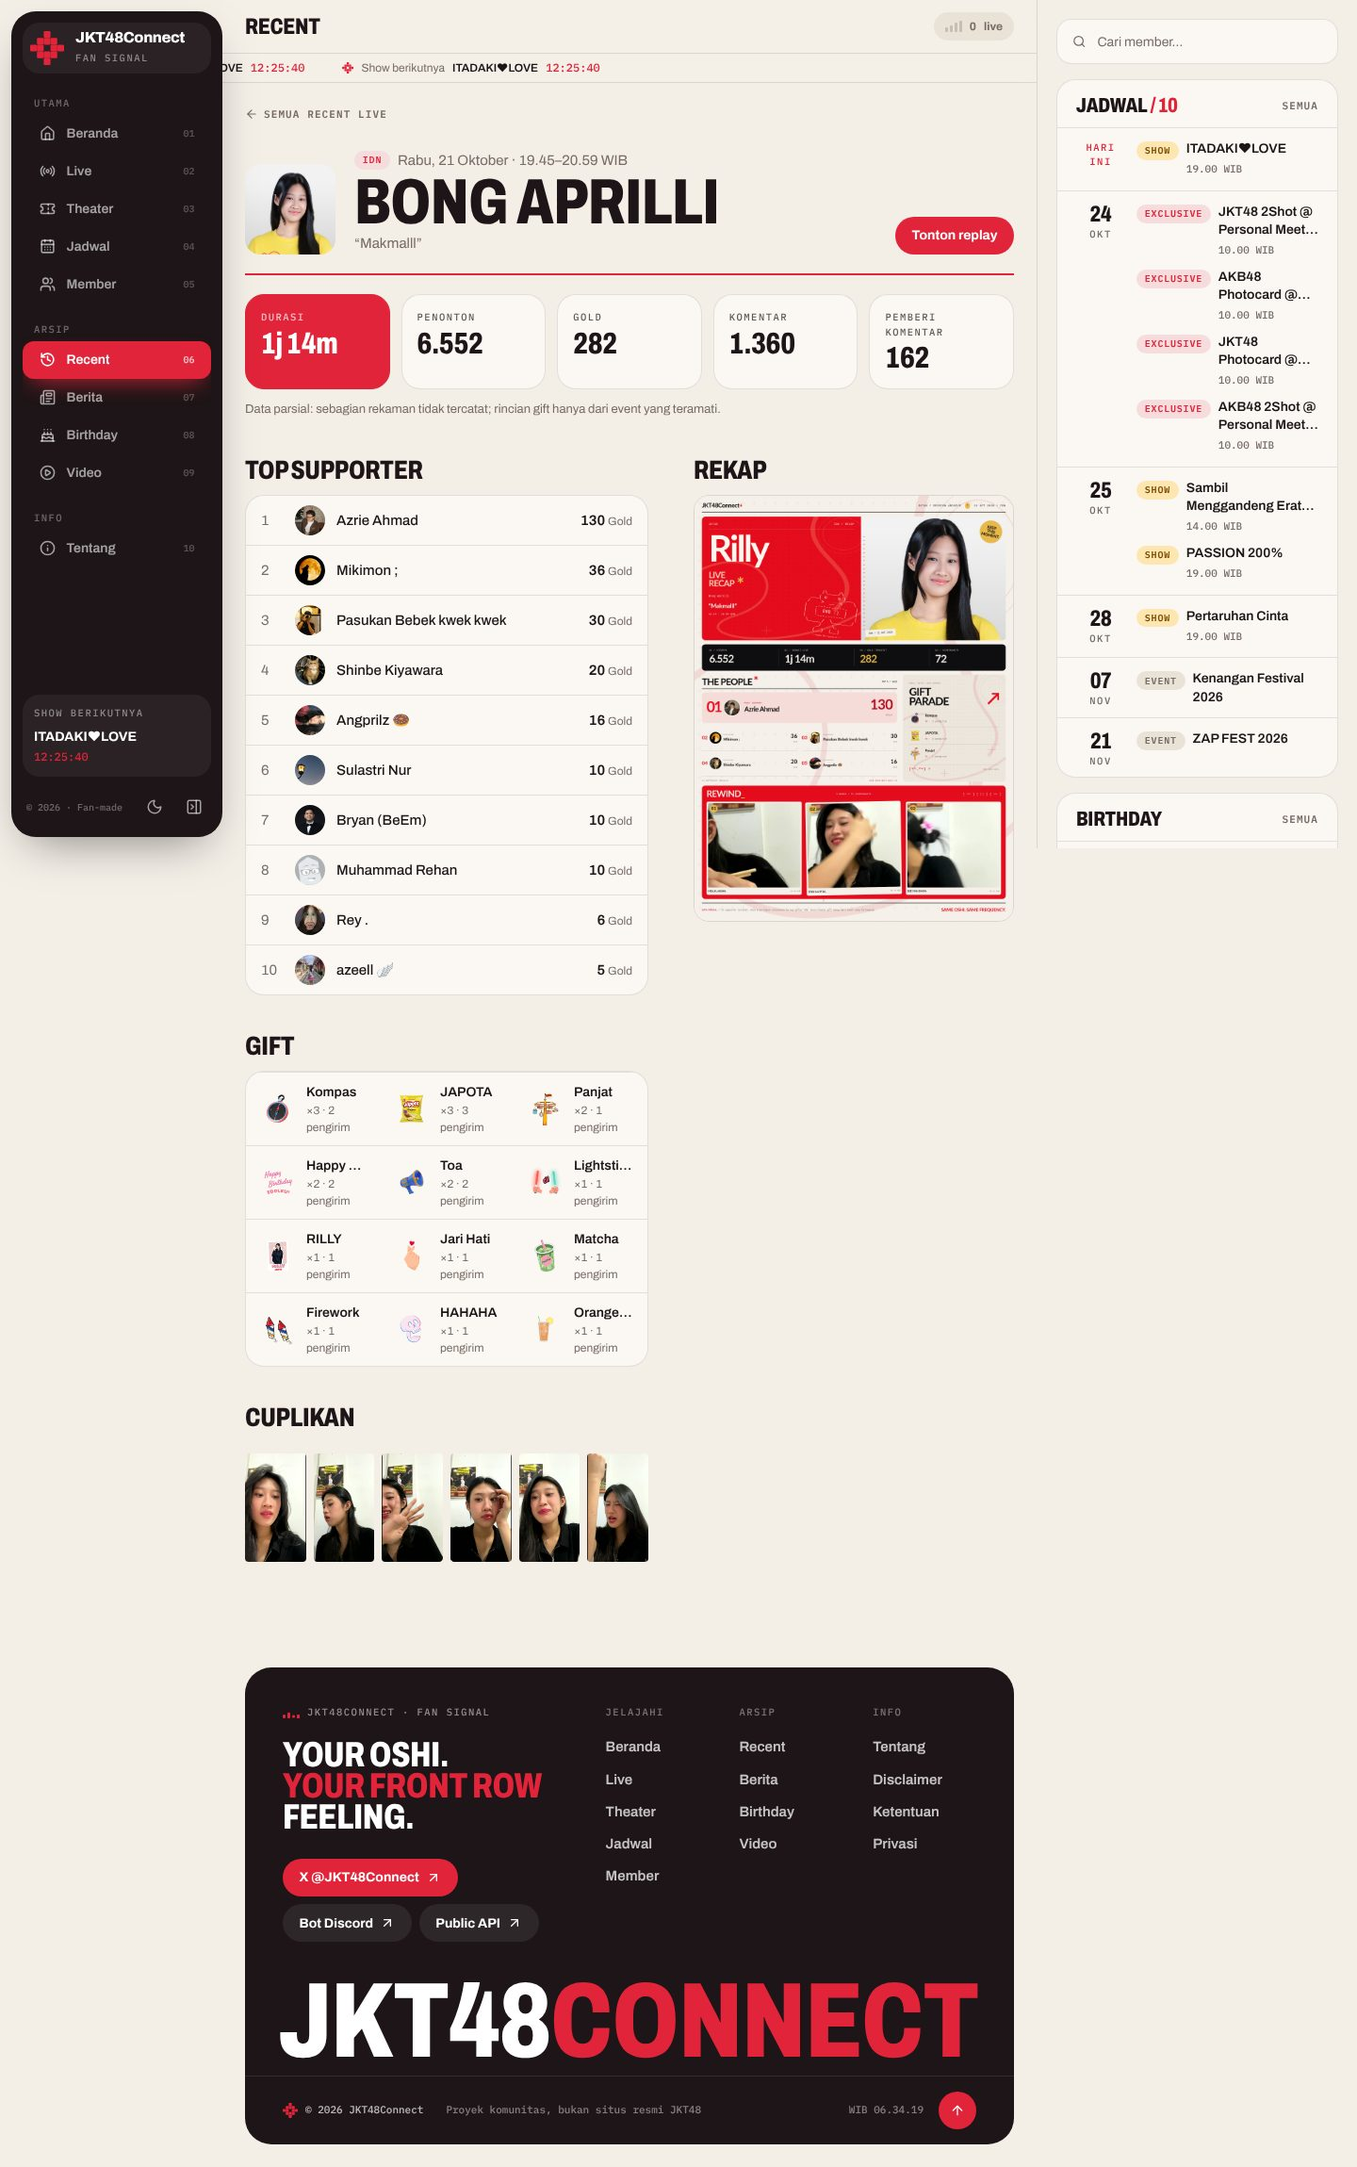
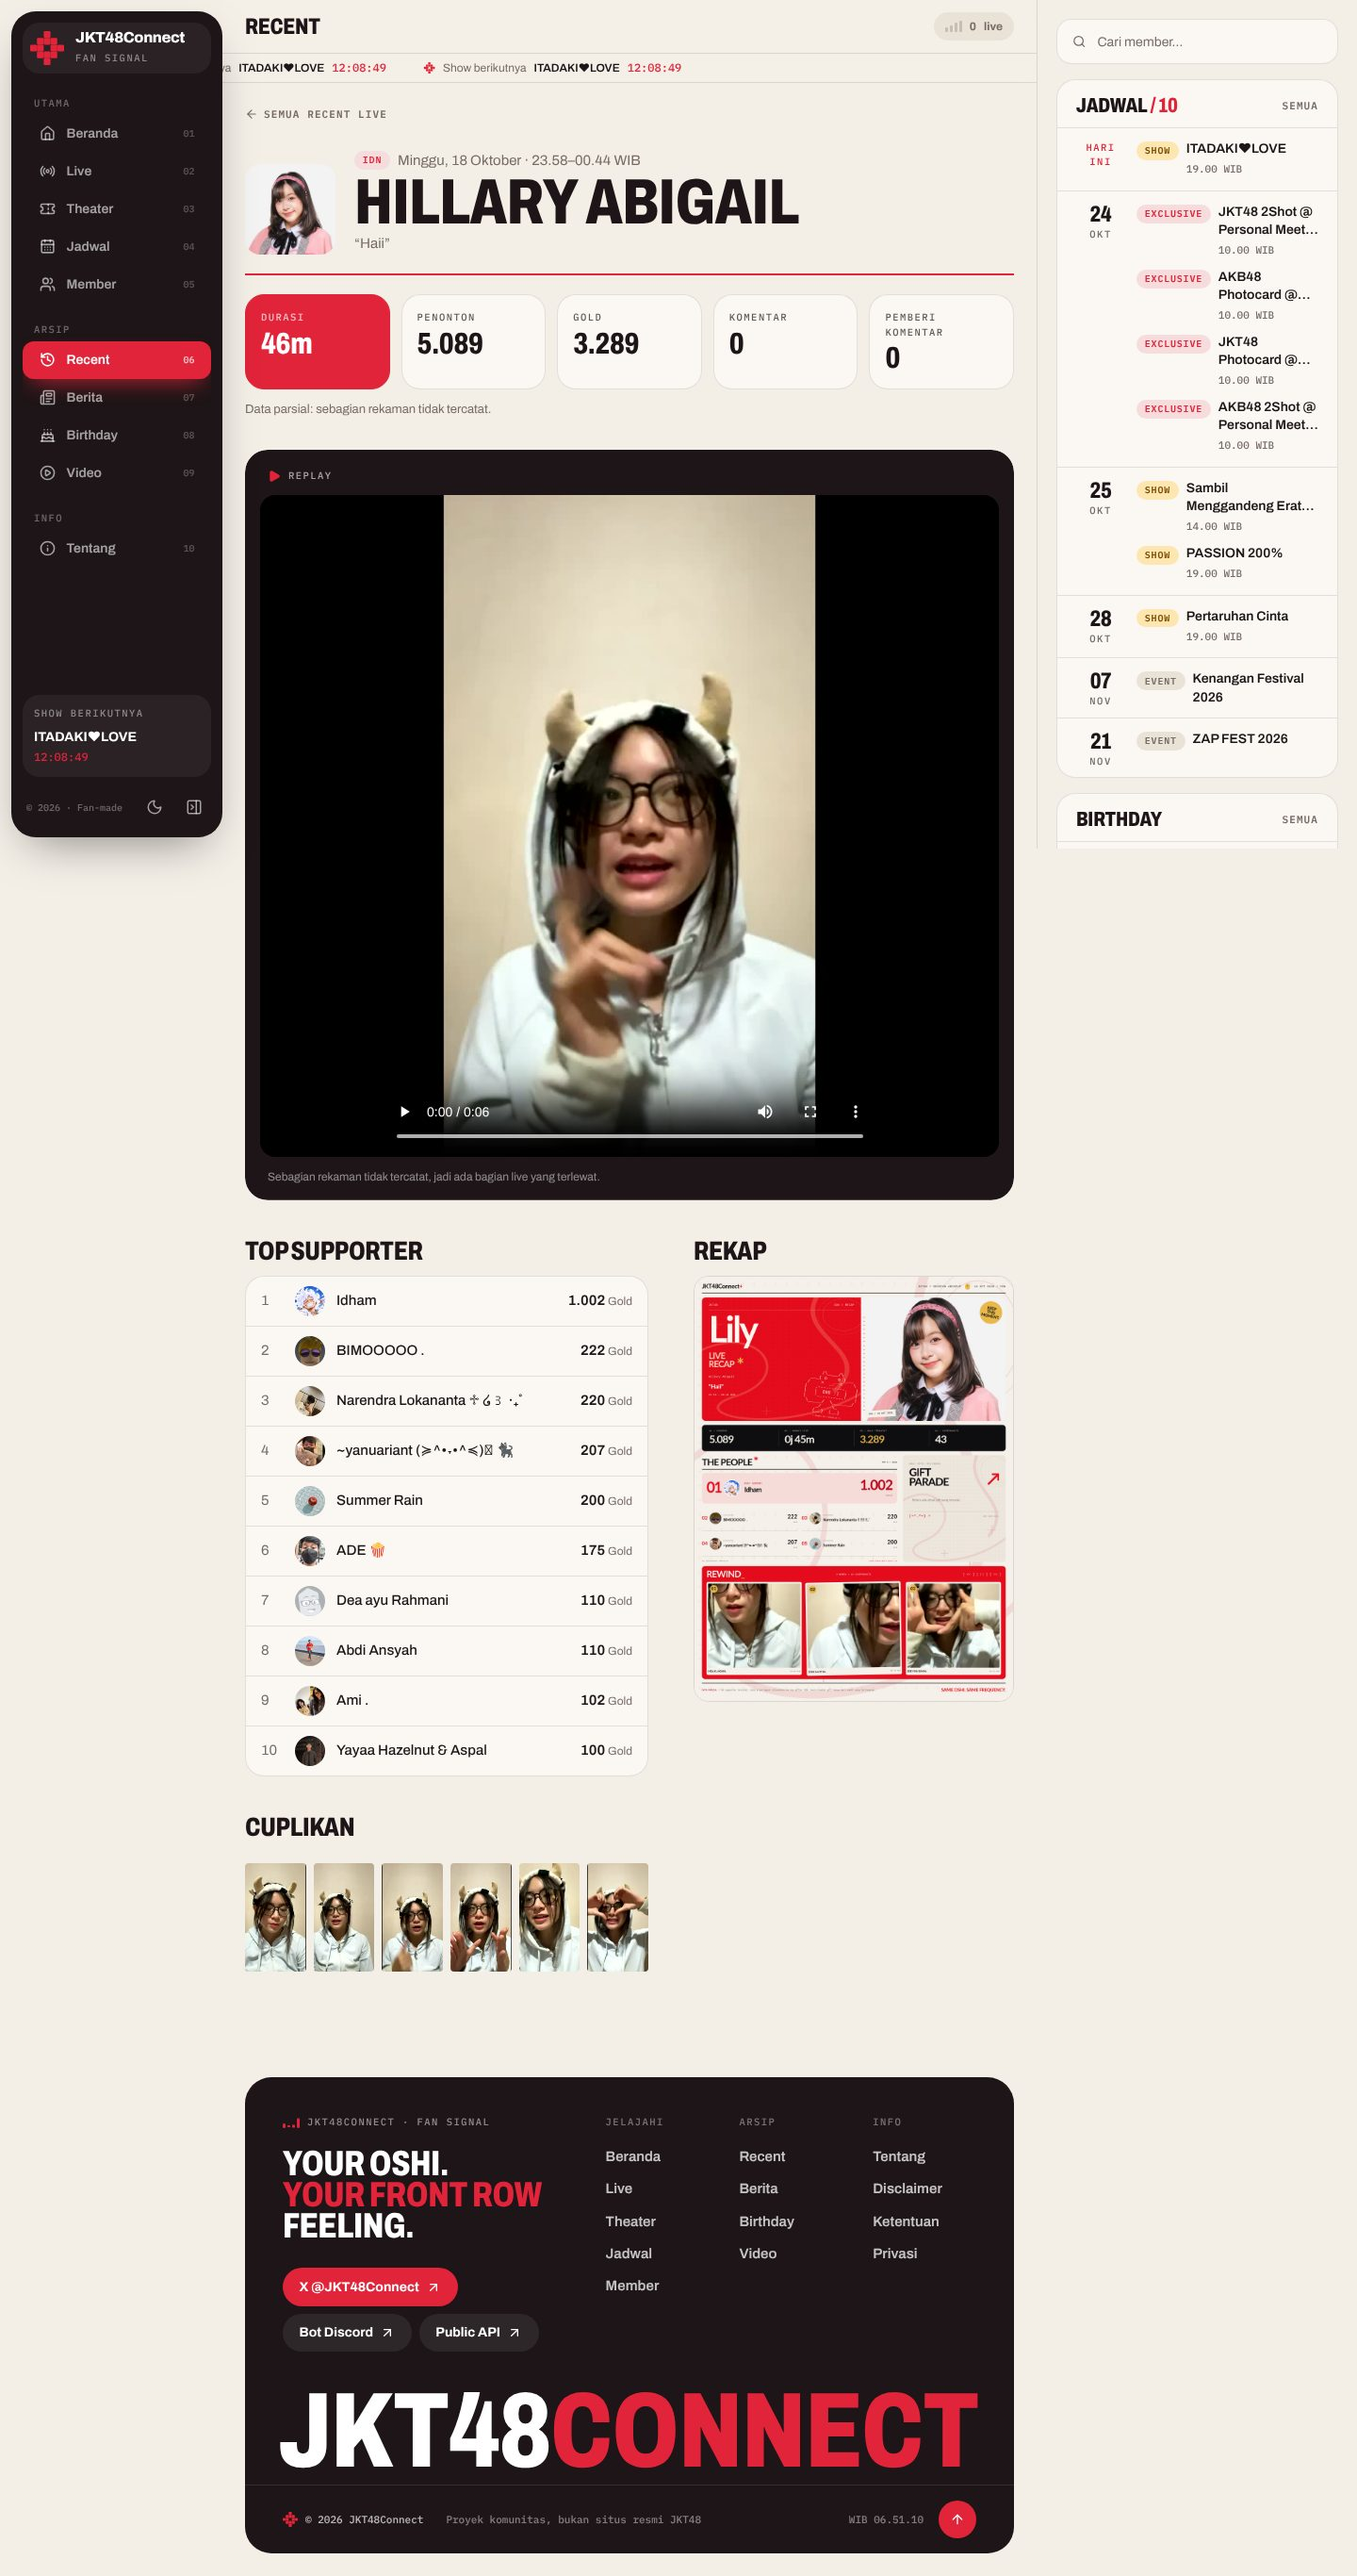
Putar replay recent langsung di situs, terbuka 72 jam setelah live
- Detail recent memutar rekaman dengan <video> dari recordings[].url (MP4 H.264,
  CORS terbuka), dengan pilihan bagian bila rekaman terpecah dan rasio diambil
  dari metadata video (IDN 3:4, Showroom 16:9).
- Pemutar baru terbuka 72 jam setelah live selesai (REPLAY_LOCK_HOURS). Sebelum
  itu tampil panel terkunci dengan hitung mundur, tanggal buka, dan bar masa
  tunggu, lalu berubah jadi pemutar dengan sendirinya saat waktunya tiba.
- Tombol "Tonton replay" ke player eksternal dihapus supaya aturan 72 jam tidak
  bisa dilewati dari halaman ini.

Claude-Session: https://claude.ai/code/session_01Jmt5K39FbxVEJrhGiuPQW9

diff --git a/src/components/replay.tsx b/src/components/replay.tsx
@@ -1,0 +1,128 @@
+import { Lock, Play } from "lucide-react";
+import { useLayoutEffect, useRef, useState } from "react";
+import { Countdown, useNow } from "@/components/countdown";
+import { cx } from "@/components/ui";
+import { fmtDate, fmtDuration, fmtTime } from "@/lib/format";
+import { gsap } from "@/lib/gsap";
+import { REPLAY_LOCK_HOURS, type Recording } from "@/lib/jkt48";
+
+const LOCK_MS = REPLAY_LOCK_HOURS * 3_600_000;
+
+/**
+ * Replay live yang diputar langsung di situs (file MP4 dari API).
+ * Baru terbuka setelah 72 jam sejak live selesai; sebelum itu tampil panel terkunci dengan hitung mundur
+ * dan bar progres masa tunggu, lalu berubah jadi pemutar dengan sendirinya saat waktunya tiba.
+ */
+export function Replay({
+  recordings,
+  unlockAt,
+  vertical,
+  poster,
+}: {
+  recordings: Recording[];
+  unlockAt: string;
+  vertical: boolean;
+  poster?: string;
+}) {
+  const now = useNow();
+  const unlock = Date.parse(unlockAt);
+  const open = Number.isFinite(unlock) && now >= unlock;
+  const [part, setPart] = useState(0);
+  // Rasio asli video (IDN 3:4, Showroom 16:9) diambil dari metadata; tebakan awal dari platform.
+  const [ratio, setRatio] = useState(vertical ? 3 / 4 : 16 / 9);
+  const root = useRef<HTMLElement>(null);
+  const bar = useRef<HTMLSpanElement>(null);
+  const progress = Number.isFinite(unlock) ? Math.min(1, Math.max(0, 1 - (unlock - now) / LOCK_MS)) : 0;
+
+  // Masuk: panel terbuka dari kiri, isi naik bertahap; bar masa tunggu terisi sampai posisi sekarang.
+  useLayoutEffect(() => {
+    const el = root.current;
+    if (!el) return;
+    const ctx = gsap.context(() => {
+      gsap.fromTo(el, { clipPath: "inset(0 100% 0 0 round 24px)" }, { clipPath: "inset(0 0% 0 0 round 24px)", duration: 0.9, ease: "expo.inOut" });
+      gsap.from("[data-rp]", { y: 18, opacity: 0, duration: 0.5, stagger: 0.06, delay: 0.35 });
+      if (bar.current) gsap.fromTo(bar.current, { scaleX: 0 }, { scaleX: progress, duration: 1.4, delay: 0.4, ease: "power3.out" });
+    }, el);
+    return () => ctx.revert();
+    // eslint-disable-next-line react-hooks/exhaustive-deps
+  }, [open]);
+
+  if (!recordings.length) return null;
+  const rec = recordings[Math.min(part, recordings.length - 1)];
+
+  if (!open) {
+    return (
+      <section ref={root} className="relative overflow-hidden rounded-3xl bg-nav p-6 text-white sm:p-8">
+        <div className="flex flex-wrap items-start gap-5">
+          <span data-rp className="grid h-14 w-14 shrink-0 place-items-center rounded-2xl bg-white/10">
+            <Lock className="h-6 w-6 text-brand" />
+          </span>
+          <div className="min-w-0 flex-1">
+            <p data-rp className="micro text-white/50">
+              Replay · terbuka {REPLAY_LOCK_HOURS} jam setelah live
+            </p>
+            <p data-rp className="condensed mt-2 text-[clamp(1.8rem,4vw,2.6rem)] uppercase leading-none">
+              {Number.isFinite(unlock) ? <Countdown target={unlockAt} /> : "Segera"}
+            </p>
+            {Number.isFinite(unlock) && (
+              <p data-rp className="mt-2 text-[14px] text-white/70">
+                Bisa diputar mulai {fmtDate(unlockAt, { weekday: "long", day: "numeric", month: "long" })}, {fmtTime(unlockAt)} WIB.
+              </p>
+            )}
+          </div>
+        </div>
+        <div data-rp className="mt-6">
+          <div className="h-1.5 overflow-hidden rounded-full bg-white/10">
+            <span ref={bar} className="block h-full origin-left rounded-full bg-brand" style={{ transform: `scaleX(${progress})` }} />
+          </div>
+          <p className="mt-2 flex justify-between font-mono text-[11px] text-white/45">
+            <span>Live selesai</span>
+            <span className="num">{Math.round(progress * 100)}%</span>
+            <span>Replay terbuka</span>
+          </p>
+        </div>
+      </section>
+    );
+  }
+
+  return (
+    <section ref={root} className="overflow-hidden rounded-3xl bg-nav p-3 text-white sm:p-4">
+      <div data-rp className="flex flex-wrap items-center justify-between gap-2 px-2 pb-3 pt-1">
+        <p className="micro flex items-center gap-2 text-white/60">
+          <Play className="h-3.5 w-3.5 fill-brand text-brand" /> Replay
+        </p>
+        {recordings.length > 1 && (
+          <div className="flex flex-wrap gap-1.5">
+            {recordings.map((r, i) => (
+              <button
+                key={r.url}
+                type="button"
+                onClick={() => setPart(i)}
+                className={cx("pill transition-colors", i === part ? "bg-brand text-white" : "bg-white/10 text-white/70 hover:bg-white/20")}
+              >
+                Bagian {i + 1} · {fmtDuration(r.durationMs)}
+              </button>
+            ))}
+          </div>
+        )}
+      </div>
+      <div data-rp className="grid place-items-center overflow-hidden rounded-2xl bg-black">
+        <video
+          key={rec.url}
+          src={rec.url}
+          poster={poster}
+          controls
+          playsInline
+          preload="metadata"
+          onLoadedMetadata={(e) => {
+            const v = e.currentTarget;
+            if (v.videoWidth && v.videoHeight) setRatio(v.videoWidth / v.videoHeight);
+          }}
+          style={{ aspectRatio: ratio }}
+          className={cx("block max-h-[78vh] max-w-full bg-black", ratio < 1 ? "h-[78vh] w-auto" : "w-full")}
+        />
+      </div>
+      {rec.partial && <p className="px-2 pt-3 text-[12px] text-white/50">Sebagian rekaman tidak tercatat, jadi ada bagian live yang terlewat.</p>}
+    </section>
+  );
+}

diff --git a/src/lib/jkt48.ts b/src/lib/jkt48.ts
@@ -307,6 +307,11 @@ export type RecentLive = {
 export type Fan = { name: string; avatar: string; amount: number | null };
 export type GiftSummary = { name: string; img: string; num: number | null; users: number | null };
 
+export type Recording = { url: string; durationMs: number; startedAt: string; partial: boolean };
+
+/** Replay baru boleh diputar di situs setelah jeda ini sejak live selesai. */
+export const REPLAY_LOCK_HOURS = 72;
+
 export type RecentDetail = RecentLive & {
   gifts: GiftSummary[];
   giftsPartial: boolean;
@@ -314,7 +319,9 @@ export type RecentDetail = RecentLive & {
   comments: number | null;
   commenters: number | null;
   leaderboard: string;
-  replayUrl: string;
+  recordings: Recording[];
+  /** Waktu replay terbuka: akhir live + REPLAY_LOCK_HOURS. */
+  replayUnlockAt: string;
   recordingPartial: boolean;
   screenshots: string[];
 };
@@ -352,8 +359,10 @@ export async function getRecent(id: string): Promise<RecentDetail> {
   const info: Raw = r.live_info ?? {};
   const shot: Raw | undefined = info.screenshot;
   const recordings = list(r.recordings);
+  const base = mapRecent(r);
+  const endMs = Date.parse(base.end) || Date.parse(base.start) + base.durationMs;
   return {
-    ...mapRecent(r),
+    ...base,
     id: str(r.data_id, id),
     gifts: list(info.gift?.list)
       .map((g) => ({ name: str(g.name), img: g.image_available === false ? "" : str(g.img), num: num(g.num), users: num(g.user_count) }))
@@ -366,7 +375,10 @@ export async function getRecent(id: string): Promise<RecentDetail> {
     comments: num(info.comments?.num),
     commenters: num(info.comments?.users),
     leaderboard: readyDesign(r.leaderboard_designs, "portrait"),
-    replayUrl: str(recordings[0]?.player_url),
+    recordings: recordings
+      .map((x) => ({ url: str(x.url), durationMs: num(x.duration_ms) ?? 0, startedAt: str(x.started_at), partial: !!x.partial }))
+      .filter((x) => x.url.endsWith(".mp4")),
+    replayUnlockAt: Number.isFinite(endMs) ? new Date(endMs + REPLAY_LOCK_HOURS * 3_600_000).toISOString() : "",
     recordingPartial: r.recording_session?.status === "partial" || recordings.some((x) => x.partial),
     screenshots:
       shot?.base_url && Array.isArray(shot.list)

diff --git a/src/pages/recent-detail.tsx b/src/pages/recent-detail.tsx
@@ -2,6 +2,7 @@ import { Link, useParams } from "@tanstack/react-router";
 import { useQuery } from "@tanstack/react-query";
 import { BackLink } from "@/components/back-link";
 import { Page } from "@/components/page";
+import { Replay } from "@/components/replay";
 import { ErrorState, Img, PlatformTag, Skeleton } from "@/components/ui";
 import { fmtDate, fmtDuration, fmtNumber, fmtTime } from "@/lib/format";
 import { pointLabel } from "@/lib/jkt48";
@@ -59,11 +60,6 @@ export function RecentDetailPage() {
                 </h1>
                 {r.title && <p className="mt-1 text-ink-soft">“{r.title}”</p>}
               </div>
-              {r.replayUrl && (
-                <a href={r.replayUrl} target="_blank" rel="noopener noreferrer" className="btn btn-primary">
-                  Tonton replay
-                </a>
-              )}
             </div>
 
             <dl data-reveal className="mt-5 grid grid-cols-2 gap-3 sm:grid-cols-5">
@@ -84,6 +80,17 @@ export function RecentDetailPage() {
               <p className="pt-3 text-[13px] text-ink-soft">
                 Data parsial: {[r.recordingPartial && "sebagian rekaman tidak tercatat", r.giftsPartial && "rincian gift hanya dari event yang teramati"].filter(Boolean).join("; ")}.
               </p>
+            )}
+
+            {r.recordings.length > 0 && (
+              <div className="pt-8">
+                <Replay
+                  recordings={r.recordings}
+                  unlockAt={r.replayUnlockAt}
+                  vertical={r.platform === "idn"}
+                  poster={r.screenshots[Math.floor(r.screenshots.length / 2)]}
+                />
+              </div>
             )}
 
             <div className="grid gap-x-12 gap-y-10 pt-10 lg:grid-cols-[minmax(0,1fr)_340px]">

diff --git a/README.md b/README.md
@@ -35,7 +35,7 @@ tema `jkt48connect`, bukan photobook.
 | `/schedule` | Show, exclusive, dan event per hari (WIB) | `GET /api/next_schedule`, `/api/theater` |
 | `/member`, `/member/:id` | Direktori (cari, aktif/graduated) & profil | `GET /api/member`, `/api/member/:id` |
 | `/birthday` | Ulang tahun terdekat + hitung mundur | `GET /api/next_birthday` |
-| `/recent`, `/recent/:id` | Rekap live: durasi, penonton, gold/poin, top supporter, gift, cuplikan, leaderboard, replay | `GET /api/recent`, `/api/recent/:id` |
+| `/recent`, `/recent/:id` | Rekap live: durasi, penonton, gold/poin, top supporter, gift, cuplikan, leaderboard, replay yang diputar langsung di situs (terbuka 72 jam setelah live) | `GET /api/recent`, `/api/recent/:id` |
 | `/news`, `/news/:id` | Berita resmi (HTML disanitasi DOMPurify) | `GET /api/news`, `/api/news/:id` |
 | `/video` | Upload terbaru JKT48 & JKT48 TV | `GET /api/jkt48_youtube` |
 | `/about`, `/disclaimer`, `/terms`, `/privacy` | Statis | — |
@@ -47,6 +47,7 @@ Beberapa hal yang ditangani di sana:
 - Lineup di daftar tidak membawa foto, jadi foto dicocokkan dari `/api/member`.
 - `now_live` bisa memuat sesi yang sama dua kali, jadi daftarnya dideduplikasi.
 - Item exclusive/event dari `next_schedule` tidak punya halaman detail (API membalas 502), jadi tampil tanpa link.
+- Replay di `/recent/:id` diputar langsung dengan `<video>` dari `recordings[].url` (MP4 H.264, CORS terbuka). Pemutar baru muncul 72 jam setelah `live_info.date.end` (`REPLAY_LOCK_HOURS` di `src/lib/jkt48.ts`); sebelum itu tampil panel terkunci dengan hitung mundur, dan berubah jadi pemutar dengan sendirinya saat waktunya tiba. Rekaman yang terdiri dari beberapa bagian bisa dipilih per bagian.
 - Gambar di isi berita jkt48.com menolak hotlink (403 bila Referer dari domain lain, plus `Cross-Origin-Resource-Policy: same-site`), jadi dilewatkan `/api/media?url=…`.
 
 ## API key tetap di server
@@ -171,6 +172,7 @@ Diambil dari dev server dengan data asli API pada 21–22 Oktober 2026.
 | ![Jadwal](docs/screenshots/07-schedule.jpg) | ![Member](docs/screenshots/08-members.jpg) |
 | ![Profil member](docs/screenshots/09-member-detail.jpg) | ![Birthday](docs/screenshots/10-birthday.jpg) |
 | ![Recent](docs/screenshots/11-recent.jpg) | ![Detail recent](docs/screenshots/12-recent-detail.jpg) |
+| ![Replay terkunci 72 jam](docs/screenshots/22-replay-locked.jpg) | |
 | ![Berita](docs/screenshots/13-news.jpg) | ![Detail berita](docs/screenshots/14-news-detail.jpg) |
 | ![Beranda mobile](docs/screenshots/17-home-mobile.jpg) | ![Menu layar penuh mobile](docs/screenshots/19-mobile-menu.jpg) |
 | ![Footer mobile](docs/screenshots/20-footer-mobile.jpg) | ![Sidebar desktop diciutkan](docs/screenshots/21-sidebar-collapsed.jpg) |
